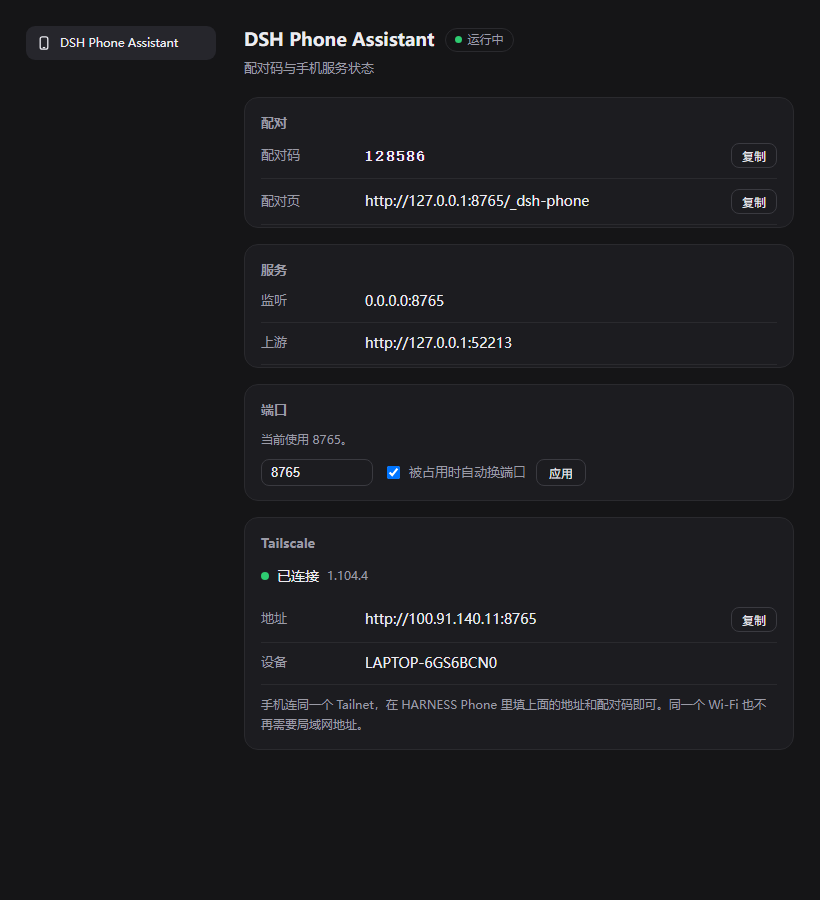
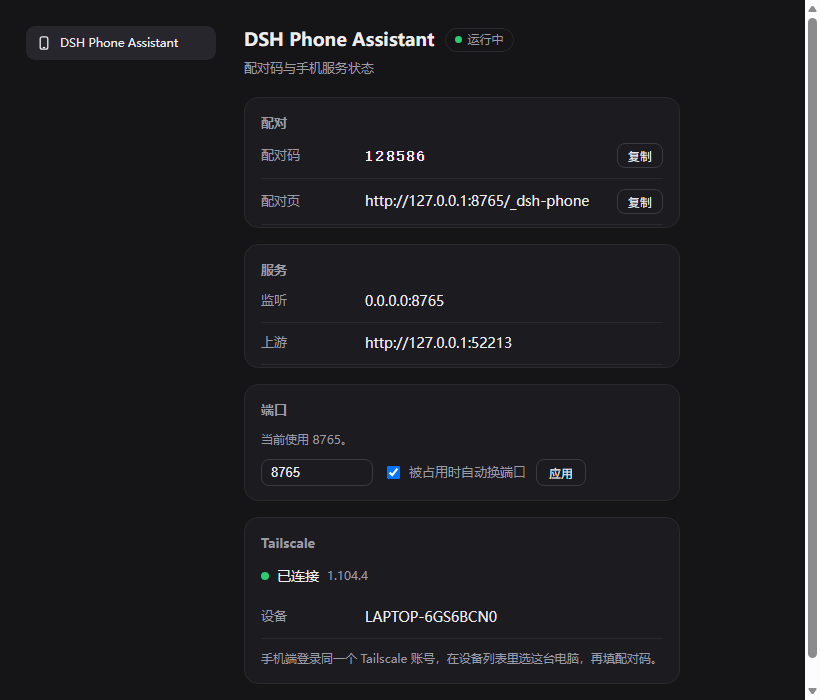
Show the machine name, not its tailnet address
The phone is 2.x: it joins the tailnet itself and lists the account's machines, so nobody has to type http://100.x.x.x:8765 anywhere. The settings card now shows the device name only, and the loopback pairing page shows the code plus that name.

diff --git a/lib/client.js b/lib/client.js
@@ -7,7 +7,7 @@ window.__ModuleLoader__.load({
 		var exports = module.exports;
 
 		var CSS = "/* HARNESS Phone mobile shell — injected only into the phone bridge page. */\nhtml.hp-mobile,\nhtml.hp-mobile body {\n  overflow-x: hidden;\n}\nhtml.hp-mobile * {\n  scrollbar-width: none !important;\n}\nhtml.hp-mobile *::-webkit-scrollbar {\n  width: 0 !important;\n  height: 0 !important;\n  display: none !important;\n}\n\n/* ---------- left sidebar: no permanent rail; 80vw drawer ---------- */\nhtml.hp-mobile .mP3x-q_frame {\n  grid-template-columns: 0 minmax(0, 1fr) 0 !important;\n}\nhtml.hp-mobile .mP3x-q_frame > .mP3x-q_sidebarCol {\n  grid-column: 1 !important;\n}\nhtml.hp-mobile .mP3x-q_frame > .mP3x-q_centerCol {\n  grid-column: 2 !important;\n}\nhtml.hp-mobile .mP3x-q_frame > .mP3x-q_rightbarCol {\n  grid-column: 3 !important;\n}\nhtml.hp-mobile .mP3x-q_frame > .mP3x-q_bottomRow,\nhtml.hp-mobile .mP3x-q_frame > .mP3x-q_overlayLayer {\n  grid-column: 1 / -1 !important;\n}\nhtml.hp-mobile .mP3x-q_sidebarCol {\n  display: none !important;\n}\n/* The desktop 56px icon rail must never flash behind the right sidebar. */\nhtml.hp-mobile body:not(.hp-sidebar-open) .mP3x-q_sidebarCol,\nhtml.hp-mobile body.hp-rightbar-open .mP3x-q_sidebarCol {\n  display: none !important;\n}\nhtml.hp-mobile .mP3x-q_rightbarCol {\n  display: none !important;\n}\nhtml.hp-mobile body.hp-rightbar-open .mP3x-q_rightbarCol {\n  display: block !important;\n  position: fixed !important;\n  top: 0 !important;\n  left: 0 !important;\n  right: 0 !important;\n  bottom: 0 !important;\n  width: 100vw !important;\n  max-width: 100vw !important;\n  height: 100dvh !important;\n  z-index: 1003 !important;\n  overflow: hidden !important;\n  background: var(--dsw-alias-bg-layer-1) !important;\n  border-radius: 0 !important;\n  box-shadow: none !important;\n}\nhtml.hp-mobile body.hp-rightbar-open .mP3x-q_rightbarCol > * {\n  width: 100% !important;\n  min-width: 0 !important;\n  max-width: none !important;\n}\nhtml.hp-mobile button[aria-label=\"退出全屏\"],\nhtml.hp-mobile button[aria-label=\"Exit fullscreen\"],\nhtml.hp-mobile button[aria-label=\"退出全屏模式\"] {\n  display: none !important;\n}\nhtml.hp-mobile body.hp-rightbar-open {\n  overflow: hidden !important;\n}\nhtml.hp-mobile body.hp-sidebar-open:not(.hp-rightbar-open) .mP3x-q_sidebarCol {\n  display: block !important;\n  position: fixed !important;\n  inset: 0 auto 0 0 !important;\n  width: 80vw !important;\n  min-width: 80vw !important;\n  max-width: 80vw !important;\n  height: 100dvh !important;\n  z-index: 1002 !important;\n  overflow: hidden !important;\n  background: var(--dsw-alias-bg-layer-1) !important;\n  border-radius: 0 22px 22px 0 !important;\n  box-shadow: 12px 0 40px #0008 !important;\n}\nhtml.hp-mobile body.hp-sidebar-open:not(.hp-rightbar-open) .mP3x-q_sidebarCol > * {\n  width: 100% !important;\n  min-width: 0 !important;\n  max-width: none !important;\n  padding-top: env(safe-area-inset-top) !important;\n}\nhtml.hp-mobile body.hp-sidebar-open:not(.hp-rightbar-open) .mP3x-q_sidebarCol .wtg9ga_root,\nhtml.hp-mobile body.hp-sidebar-open:not(.hp-rightbar-open) .mP3x-q_sidebarCol .wtg9ga_regionArea,\nhtml.hp-mobile body.hp-sidebar-open:not(.hp-rightbar-open) .mP3x-q_sidebarCol .GAkraW_root {\n  width: 100% !important;\n  max-width: none !important;\n}\nhtml.hp-mobile body.hp-sidebar-open {\n  overflow: hidden !important;\n}\n\n#hp-menu-button {\n  width: 40px;\n  height: 40px;\n  flex: 0 0 40px;\n  border: 0;\n  border-radius: 12px;\n  background: transparent;\n  color: var(--dsw-alias-label-primary);\n  display: flex;\n  align-items: center;\n  justify-content: center;\n  padding: 0;\n  cursor: pointer;\n}\n#hp-menu-button svg {\n  width: 22px;\n  height: 22px;\n  stroke: currentColor;\n  stroke-width: 1.9;\n  fill: none;\n}\n#hp-menu-button:active {\n  background: var(--dsw-alias-bg-layer-2);\n}\n\n#hp-backdrop {\n  position: fixed;\n  inset: 0;\n  z-index: 1001;\n  background: #00000080;\n  backdrop-filter: blur(2px);\n  display: none;\n  border: 0;\n  animation: hp-fade-in 160ms ease both;\n}\n\n/* ---------- session top bar ---------- */\nhtml.hp-mobile .an3WzG_header {\n  min-height: 88px !important;\n  height: 88px !important;\n  padding: 8px 0 0 8px !important;\n  background: var(--dsw-alias-bg-layer-1) !important;\n  border-bottom: 1px solid var(--dsw-alias-border-l1) !important;\n  border-radius: 0 0 18px 18px !important;\n  box-shadow: 0 6px 20px #0002 !important;\n  position: relative !important;\n  z-index: 3 !important;\n  box-sizing: border-box !important;\n}\nhtml.hp-mobile .an3WzG_header.hp-no-tabs {\n  min-height: 64px !important;\n  height: 64px !important;\n}\nhtml.hp-mobile .an3WzG_titleRow {\n  width: 100% !important;\n  height: 48px !important;\n  min-height: 48px !important;\n  gap: 8px !important;\n  align-items: center !important;\n  position: relative !important;\n}\nhtml.hp-mobile .an3WzG_crumbs {\n  display: none !important;\n}\nhtml.hp-mobile .an3WzG_titleCluster {\n  flex: 0 0 auto !important;\n  min-width: 0 !important;\n}\nhtml.hp-mobile .an3WzG_headerUtilities {\n  position: absolute !important;\n  right: 48px !important;\n  top: 0 !important;\n  height: 48px !important;\n  margin: 0 !important;\n  gap: 4px !important;\n  align-items: center !important;\n  display: flex !important;\n}\nhtml.hp-mobile .an3WzG_headerActions {\n  position: absolute !important;\n  right: 48px !important;\n  top: 0 !important;\n  height: 48px !important;\n  margin: 0 !important;\n  gap: 4px !important;\n  align-items: center !important;\n  display: flex !important;\n}\nhtml.hp-mobile .an3WzG_headerActions > div:first-child {\n  display: none !important; /* background-job status pill */\n}\nhtml.hp-mobile .an3WzG_headerUtilities > ._root_4ub78_1 > button,\nhtml.hp-mobile .an3WzG_headerUtilities > button,\nhtml.hp-mobile .an3WzG_headerActions button,\nhtml.hp-mobile .an3WzG_headerCorner > button,\nhtml.hp-mobile .an3WzG_headerCorner > span > button {\n  width: 40px !important;\n  min-width: 40px !important;\n  height: 40px !important;\n  min-height: 40px !important;\n  margin: 0 !important;\n  align-self: center !important;\n  display: flex !important;\n  align-items: center !important;\n  justify-content: center !important;\n  border-radius: 12px !important;\n}\nhtml.hp-mobile .an3WzG_headerCorner {\n  width: 40px !important;\n  height: 48px !important;\n  margin: 0 !important;\n  position: absolute !important;\n  right: 0 !important;\n  top: 0 !important;\n  display: flex !important;\n  align-items: center !important;\n  justify-content: center !important;\n}\nhtml.hp-mobile .mOxcpG_main,\nhtml.hp-mobile .mOxcpG_chevron,\nhtml.hp-mobile .mOxcpG_split,\nhtml.hp-mobile .yHUiNq_action {\n  display: none !important; /* PC \"open in app\" controls: phone must preview in HARNESS */\n}\nhtml.hp-mobile .hp-file-action {\n  appearance: none;\n  width: 28px;\n  height: 28px;\n  min-width: 28px;\n  margin-left: 4px;\n  padding: 0;\n  border: 1px solid var(--dsw-alias-border-l2);\n  border-radius: 8px;\n  background: var(--dsw-alias-bg-layer-2);\n  color: var(--dsw-alias-label-secondary);\n  display: inline-flex;\n  align-items: center;\n  justify-content: center;\n  vertical-align: middle;\n  transition: background-color 160ms ease, color 160ms ease;\n}\nhtml.hp-mobile .hp-file-action:active {\n  background: var(--dsw-alias-bg-layer-3);\n}\nhtml.hp-mobile .hp-file-action.hp-open {\n  color: var(--dsw-alias-state-business-primary, #4d6bfe);\n  border-color: var(--dsw-alias-state-business-primary, #4d6bfe);\n}\nhtml.hp-mobile .an3WzG_tabs {\n  margin: 0 !important;\n  padding: 0 4px !important;\n  width: 100% !important;\n  height: 32px !important;\n  min-height: 32px !important;\n  display: flex !important;\n  align-items: center !important;\n  box-sizing: border-box !important;\n}\nhtml.hp-mobile .an3WzG_viewTabs {\n  flex: 2 1 0 !important;\n  display: flex !important;\n  align-items: center !important;\n  justify-content: space-around !important;\n}\nhtml.hp-mobile .an3WzG_tab {\n  flex: 1 1 0 !important;\n  height: 30px !important;\n  padding: 0 8px !important;\n  border-radius: 9px !important;\n  justify-content: center !important;\n}\nhtml.hp-mobile .an3WzG_tabActive {\n  background: var(--dsw-alias-bg-layer-2) !important;\n}\nhtml.hp-mobile .an3WzG_viewsMoreAnchor {\n  flex: 1 1 0 !important;\n  display: flex !important;\n  align-items: center !important;\n  justify-content: center !important;\n}\nhtml.hp-mobile .an3WzG_viewsMore {\n  width: 52px !important;\n  height: 30px !important;\n  display: flex !important;\n  align-items: center !important;\n  justify-content: center !important;\n  font: 500 13px/16px var(--dsw-font-family, sans-serif) !important;\n  color: var(--dsw-alias-label-secondary) !important;\n}\nhtml.hp-mobile .an3WzG_viewsMore svg {\n  display: none !important;\n}\nhtml.hp-mobile .an3WzG_viewsMore::after {\n  content: \"更多\";\n}\nhtml.hp-mobile [role=\"menu\"] {\n  background: var(--dsw-alias-bg-layer-1) !important;\n  background-color: var(--dsw-alias-bg-layer-1) !important;\n  -webkit-backdrop-filter: none !important;\n  backdrop-filter: none !important;\n  box-shadow: 0 10px 30px #0005 !important;\n  border: 1px solid var(--dsw-alias-border-l1) !important;\n  opacity: 1 !important;\n}\nhtml.hp-mobile [role=\"menuitem\"] {\n  background: transparent !important;\n}\nhtml.hp-mobile [role=\"menuitem\"]:hover {\n  background: var(--dsw-alias-bg-layer-2) !important;\n}\n\n#hp-brand {\n  display: flex;\n  align-items: center;\n  height: 40px;\n  padding-right: 2px;\n  color: var(--dsw-alias-label-primary);\n  font: 700 18px/1 var(--dsw-font-family, sans-serif);\n  letter-spacing: 0.06em;\n  white-space: nowrap;\n  flex: 0 0 auto;\n}\n\n#hp-floating-menu {\n  position: fixed;\n  top: calc(8px + env(safe-area-inset-top));\n  left: 8px;\n  z-index: 1000;\n  width: 40px;\n  height: 40px;\n  padding: 0;\n  border: 1px solid var(--dsw-alias-border-l2);\n  border-radius: 11px;\n  background: var(--dsw-alias-bg-layer-2);\n  color: var(--dsw-alias-label-primary);\n  display: inline-flex;\n  align-items: center;\n  justify-content: center;\n  box-shadow: 0 4px 16px #0005;\n}\n#hp-floating-menu svg {\n  width: 22px;\n  height: 22px;\n  fill: none;\n  stroke: currentColor;\n  stroke-width: 1.8;\n  stroke-linecap: round;\n}\nbody.hp-sidebar-open #hp-floating-menu,\nbody.hp-rightbar-open #hp-floating-menu,\nbody.hp-settings-open #hp-floating-menu {\n  display: none !important;\n}\n\n/* ---------- panel pages (插件 / 自动化任务): in-flow drawer trigger ---------- */\n#hp-page-menu {\n  position: absolute;\n  top: 0;\n  width: 36px;\n  height: 36px;\n  margin: 0;\n  padding: 0;\n  border: 0;\n  border-radius: 12px;\n  background: transparent;\n  color: var(--dsw-alias-label-primary);\n  display: inline-flex;\n  align-items: center;\n  justify-content: center;\n  cursor: pointer;\n  -webkit-tap-highlight-color: transparent;\n  z-index: 2;\n}\n#hp-page-menu svg {\n  width: 22px;\n  height: 22px;\n  fill: none;\n  stroke: currentColor;\n  stroke-width: 1.9;\n  stroke-linecap: round;\n}\n#hp-page-menu:active {\n  background: var(--dsw-alias-bg-layer-2);\n}\nhtml.hp-mobile .hp-page-heading {\n  box-sizing: border-box !important;\n}\n#hp-rightbar-escape {\n  position: fixed;\n  top: calc(48px + env(safe-area-inset-top));\n  right: 12px;\n  z-index: 1006;\n  width: 34px;\n  height: 34px;\n  padding: 0;\n  border: 1px solid var(--dsw-alias-border-l2);\n  border-radius: 50%;\n  background: var(--dsw-alias-bg-layer-2);\n  color: var(--dsw-alias-label-primary);\n  font: 20px/1 var(--dsw-font-family, sans-serif);\n  box-shadow: 0 4px 14px #0006;\n}\n#hp-rightbar-toolbar {\n  display: flex;\n  align-items: center;\n  gap: 7px;\n  min-height: 48px;\n  padding: 7px 10px;\n  border-bottom: 1px solid var(--dsw-alias-border-l1);\n  background: var(--dsw-alias-bg-layer-2);\n  position: sticky;\n  top: 0;\n  z-index: 30;\n  box-sizing: border-box;\n  width: 100%;\n}\n.hp-preview-actions {\n  display: inline-flex;\n  align-items: center;\n  gap: 2px;\n  flex: 0 0 auto;\n}\n.hp-preview-action {\n  appearance: none;\n  width: 28px;\n  height: 28px;\n  padding: 0;\n  border: 0;\n  border-radius: 7px;\n  background: transparent;\n  color: var(--dsw-alias-label-secondary);\n  font: 500 15px/1 var(--dsw-font-family, sans-serif);\n  display: inline-flex;\n  align-items: center;\n  justify-content: center;\n}\n.hp-preview-action:active {\n  background: var(--dsw-alias-bg-layer-3);\n}\n.hp-rightbar-name {\n  flex: 1 1 auto;\n  min-width: 0;\n  overflow: hidden;\n  text-overflow: ellipsis;\n  white-space: nowrap;\n  color: var(--dsw-alias-label-primary);\n  font: 500 13px/1.3 var(--dsw-font-family, sans-serif);\n}\n.hp-rightbar-tool {\n  appearance: none;\n  width: 32px;\n  height: 32px;\n  min-width: 32px;\n  padding: 0;\n  border: 1px solid var(--dsw-alias-border-l2);\n  border-radius: 9px;\n  background: var(--dsw-alias-bg-layer-1);\n  color: var(--dsw-alias-label-primary);\n  font: 16px/1 var(--dsw-font-family, sans-serif);\n  display: inline-flex;\n  align-items: center;\n  justify-content: center;\n}\n.hp-rightbar-close {\n  color: var(--dsw-alias-label-secondary);\n}\nhtml.hp-mobile a.hp-file-anchor {\n  display: inline-flex;\n  align-items: center;\n  gap: 8px;\n  padding: 10px 12px;\n  margin: 4px 0;\n  border: 1px solid var(--dsw-alias-border-l1);\n  border-radius: 12px;\n  background: var(--dsw-alias-bg-layer-1);\n  color: var(--dsw-alias-label-primary) !important;\n  text-decoration: none !important;\n  font-size: 14px;\n  line-height: 1.4;\n}\nhtml.hp-mobile a.hp-file-anchor::before {\n  content: '📄';\n  font-size: 15px;\n  line-height: 1;\n}\nhtml.hp-mobile a.hp-file-anchor + .hp-file-action {\n  margin-left: 6px;\n}\n#hp-toast {\n  position: fixed;\n  left: 50%;\n  bottom: calc(120px + env(safe-area-inset-bottom));\n  z-index: 2000;\n  transform: translate(-50%, 12px);\n  max-width: calc(100vw - 40px);\n  padding: 10px 14px;\n  border: 1px solid var(--dsw-alias-border-l2);\n  border-radius: 12px;\n  background: var(--dsw-alias-bg-layer-2);\n  color: var(--dsw-alias-label-primary);\n  font: 13px/1.4 var(--dsw-font-family, sans-serif);\n  box-shadow: 0 8px 28px #0006;\n  opacity: 0;\n  pointer-events: none;\n  transition: opacity 0.18s ease, transform 0.18s ease;\n}\n#hp-toast.hp-show {\n  opacity: 1;\n  transform: translate(-50%, 0);\n}\n\n/* ---------- settings: full screen, horizontal nav ---------- */\nhtml.hp-mobile .AnXs9G_overlay {\n  padding: 0 !important;\n  z-index: 1050 !important;\n  animation: hp-fade-in 150ms ease both;\n}\nhtml.hp-mobile body.hp-settings-open #hp-backdrop {\n  display: none !important;\n}\nhtml.hp-mobile .AnXs9G_panel {\n  width: 100vw !important;\n  max-width: 100vw !important;\n  height: 100dvh !important;\n  max-height: 100dvh !important;\n  margin: 0 !important;\n  border-radius: 0 !important;\n  padding: 0 !important;\n  display: flex !important;\n  flex-direction: column !important;\n  overflow: hidden !important;\n  animation: hp-sheet-in 190ms cubic-bezier(0.2, 0, 0, 1) both;\n}\nhtml.hp-mobile .AnXs9G_nav {\n  width: 100% !important;\n  height: auto !important;\n  max-height: none !important;\n  flex: 0 0 auto !important;\n  padding: calc(10px + env(safe-area-inset-top)) 12px 0 !important;\n  border-right: 0 !important;\n  border-bottom: 1px solid var(--dsw-alias-border-l1) !important;\n  box-sizing: border-box !important;\n}\nhtml.hp-mobile .AnXs9G_navList {\n  display: flex !important;\n  flex-direction: row !important;\n  gap: 6px !important;\n  overflow-x: auto !important;\n  padding: 0 0 8px !important;\n  scrollbar-width: none !important;\n  scroll-behavior: smooth !important;\n}\nhtml.hp-mobile .AnXs9G_navList::-webkit-scrollbar {\n  display: none !important;\n}\nhtml.hp-mobile .AnXs9G_navCell {\n  width: auto !important;\n  flex: 0 0 auto !important;\n  white-space: nowrap !important;\n  padding: 9px 12px !important;\n  transition: background-color 160ms ease, color 160ms ease;\n}\nhtml.hp-mobile .AnXs9G_content {\n  width: 100% !important;\n  flex: 1 1 auto !important;\n  min-height: 0 !important;\n  padding: 10px 16px calc(24px + env(safe-area-inset-bottom)) !important;\n  overflow-y: auto !important;\n  box-sizing: border-box !important;\n}\nhtml.hp-mobile .AnXs9G_header {\n  position: fixed !important;\n  top: calc(10px + env(safe-area-inset-top)) !important;\n  right: 12px !important;\n  left: auto !important;\n  width: 36px !important;\n  height: 36px !important;\n  padding: 0 !important;\n  margin: 0 !important;\n  background: transparent !important;\n  z-index: 6 !important;\n}\nhtml.hp-mobile .AnXs9G_header .AnXs9G_actions {\n  display: none !important;\n}\nhtml.hp-mobile .AnXs9G_close {\n  width: 36px !important;\n  height: 36px !important;\n  min-width: 36px !important;\n  border-radius: 50% !important;\n  background: var(--dsw-alias-bg-layer-2) !important;\n  border: 1px solid var(--dsw-alias-border-l2) !important;\n}\nhtml.hp-mobile .AnXs9G_options {\n  width: 100% !important;\n  max-width: none !important;\n  padding: 0 0 calc(24px + env(safe-area-inset-bottom)) !important;\n  box-sizing: border-box !important;\n  overflow-x: hidden !important;\n}\nhtml.hp-mobile .RmVo8q_section,\nhtml.hp-mobile .IUsUBa_group {\n  width: 100% !important;\n  max-width: none !important;\n}\nhtml.hp-mobile .Iwzhua_group {\n  display: none !important; /* native appearance row writes to the Host; replaced by local card */\n}\nhtml.hp-mobile .AnXs9G_close {\n  flex: 0 0 auto !important;\n}\n\n/* local-only appearance (sits where the desktop Appearance section is) */\nhtml.hp-mobile .hp-appearance {\n  width: 100% !important;\n  flex: 1 1 100% !important;\n  padding: 16px 0;\n  margin: 0;\n  box-sizing: border-box;\n  border-bottom: 1px solid var(--dsw-alias-border-l1);\n  color: var(--dsw-alias-label-primary);\n}\nhtml.hp-mobile .hp-appearance-head {\n  display: block;\n  margin: 0 0 10px;\n  font-size: 15px;\n  font-weight: 500;\n  line-height: 1.4;\n}\nhtml.hp-mobile .hp-theme {\n  display: flex;\n  gap: 6px;\n  width: 100%;\n}\nhtml.hp-mobile .hp-theme button {\n  appearance: none;\n  flex: 1 1 0;\n  min-height: 38px;\n  padding: 8px 6px;\n  border: 1px solid var(--dsw-alias-border-l2);\n  border-radius: 11px;\n  background: var(--dsw-alias-bg-layer-1);\n  color: var(--dsw-alias-label-primary);\n  font: 500 14px/1.2 var(--dsw-font-family, sans-serif);\n  transition: background-color 160ms ease, border-color 160ms ease, color 160ms ease;\n}\nhtml.hp-mobile .hp-theme button:active {\n  transform: scale(0.98);\n}\nhtml.hp-mobile .hp-theme button.hp-selected {\n  border-color: var(--dsw-alias-state-business-primary, #4d6bfe);\n  background: var(--dsw-alias-bg-layer-3);\n  color: var(--dsw-alias-state-business-primary, #4d6bfe);\n}\nhtml.hp-mobile .hp-local-font-row {\n  display: flex !important;\n  flex-direction: row !important;\n  align-items: center !important;\n  justify-content: space-between !important;\n  gap: 16px !important;\n  width: 100% !important;\n  min-width: 100% !important;\n  box-sizing: border-box !important;\n  padding: 16px 0 !important;\n  border-bottom: 1px solid var(--dsw-alias-border-l1);\n  color: var(--dsw-alias-label-primary);\n}\nhtml.hp-mobile .hp-local-font-copy {\n  flex: 1 1 auto;\n  min-width: 0;\n  display: flex;\n  flex-direction: column;\n  gap: 4px;\n}\nhtml.hp-mobile .hp-local-font-label {\n  font-size: 15px;\n  font-weight: 500;\n  line-height: 1.4;\n}\nhtml.hp-mobile .hp-local-font-hint {\n  color: var(--dsw-alias-label-tertiary);\n  font-size: 12px;\n  line-height: 1.45;\n}\nhtml.hp-mobile .hp-local-font-control {\n  flex: 0 0 auto;\n  display: flex;\n  align-items: center;\n  gap: 4px;\n}\nhtml.hp-mobile .hp-font-stepper {\n  display: flex;\n  align-items: center;\n  gap: 2px;\n}\nhtml.hp-mobile .hp-font-arrows {\n  display: flex;\n  flex-direction: column;\n  gap: 1px;\n}\nhtml.hp-mobile .hp-font-step {\n  appearance: none;\n  width: 18px;\n  height: 15px;\n  min-width: 18px;\n  padding: 0;\n  border: 0;\n  border-radius: 4px;\n  background: transparent;\n  color: var(--dsw-alias-label-secondary);\n  font: 500 8px/1 var(--dsw-font-family, sans-serif);\n  display: inline-flex;\n  align-items: center;\n  justify-content: center;\n}\nhtml.hp-mobile .hp-font-step:active {\n  background: var(--dsw-alias-bg-layer-2);\n}\nhtml.hp-mobile .hp-font-more {\n  appearance: none;\n  width: 30px;\n  height: 30px;\n  padding: 0;\n  border: 1px solid var(--dsw-alias-border-l2);\n  border-radius: 9px;\n  background: var(--dsw-alias-bg-layer-2);\n  color: var(--dsw-alias-label-secondary);\n  font: 500 14px/1 var(--dsw-font-family, sans-serif);\n  display: inline-flex;\n  align-items: center;\n  justify-content: center;\n  align-self: center;\n  transition: transform 120ms ease;\n}\nhtml.hp-mobile .hp-font-more.hp-font-more-open {\n  transform: rotate(180deg);\n}\nhtml.hp-mobile .hp-font-extra {\n  border-bottom: 1px solid var(--dsw-alias-border-l1);\n  padding-bottom: 6px;\n}\nhtml.hp-mobile .hp-font-extra[hidden] {\n  display: none !important;\n}\nhtml.hp-mobile .hp-font-extra-row {\n  display: flex;\n  align-items: center;\n  justify-content: space-between;\n  gap: 16px;\n  padding: 13px 0;\n  border-bottom: 1px solid var(--dsw-alias-border-l1);\n}\nhtml.hp-mobile .hp-font-extra-row:last-child {\n  border-bottom: 0;\n}\nhtml.hp-mobile .hp-font-extra-copy {\n  flex: 1 1 auto;\n  min-width: 0;\n  display: flex;\n  flex-direction: column;\n  gap: 4px;\n}\nhtml.hp-mobile .hp-font-extra-title {\n  font-size: 14px;\n  font-weight: 500;\n  color: var(--dsw-alias-label-primary);\n}\nhtml.hp-mobile .hp-font-extra-desc {\n  font-size: 12px;\n  line-height: 1.45;\n  color: var(--dsw-alias-label-tertiary);\n}\nhtml.hp-mobile .hp-font-extra-input {\n  flex: 0 0 132px;\n  width: 132px;\n  min-height: 36px;\n  padding: 6px 9px;\n  border: 1px solid var(--dsw-alias-border-l2);\n  border-radius: 9px;\n  background: var(--dsw-alias-bg-layer-2);\n  color: var(--dsw-alias-label-primary);\n  font: 13px/1.3 var(--dsw-font-family, sans-serif);\n}\nhtml.hp-mobile ._7qxJPq_row {\n  width: 100% !important;\n  box-sizing: border-box !important;\n}\nhtml.hp-mobile .AnXs9G_content [id^=\":r\"] {\n  width: 100% !important;\n  max-width: 100% !important;\n  box-sizing: border-box !important;\n}\nhtml.hp-mobile .hp-local-font-value {\n  width: 42px;\n  min-width: 42px;\n  height: 32px;\n  padding: 0 4px;\n  border: 1px solid transparent;\n  border-radius: 8px;\n  background: transparent;\n  color: var(--dsw-alias-label-primary);\n  font: 500 14px/1 var(--dsw-font-family, sans-serif);\n  text-align: right;\n  font-variant-numeric: tabular-nums;\n  appearance: textfield;\n  -moz-appearance: textfield;\n}\nhtml.hp-mobile .hp-local-font-value:focus {\n  outline: none;\n  border-color: var(--dsw-alias-border-l2);\n  background: var(--dsw-alias-bg-layer-2);\n}\nhtml.hp-mobile .hp-local-font-value::-webkit-outer-spin-button,\nhtml.hp-mobile .hp-local-font-value::-webkit-inner-spin-button {\n  appearance: none;\n  margin: 0;\n}\n/* Keep the native \"更多字体设置\" expander and its per-section panel. */\nhtml.hp-mobile ._7qxJPq_row.hp-font-native {\n  display: flex !important;\n  padding: 4px 0 8px !important;\n  border: 0 !important;\n  min-height: 0 !important;\n}\nhtml.hp-mobile ._7qxJPq_row.hp-font-native ._7qxJPq_rowText,\nhtml.hp-mobile ._7qxJPq_row.hp-font-native ._7qxJPq_stepper,\nhtml.hp-mobile ._7qxJPq_row.hp-font-native ._7qxJPq_unit {\n  display: none !important;\n}\nhtml.hp-mobile ._7qxJPq_row.hp-font-native ._7qxJPq_control {\n  width: 100% !important;\n  justify-content: flex-end !important;\n}\nhtml.hp-mobile .hp-local-font-unit {\n  color: var(--dsw-alias-label-tertiary);\n  font-size: 12px;\n}\nhtml.hp-mobile .hp-download-row {\n  display: flex !important;\n  align-items: center !important;\n  justify-content: space-between !important;\n  gap: 16px !important;\n  width: 100% !important;\n  box-sizing: border-box !important;\n  padding: 16px 0 !important;\n  border-bottom: 1px solid var(--dsw-alias-border-l1);\n  color: var(--dsw-alias-label-primary);\n}\nhtml.hp-mobile .hp-download-copy {\n  flex: 1 1 auto;\n  min-width: 0;\n  display: flex;\n  flex-direction: column;\n  gap: 4px;\n}\nhtml.hp-mobile .hp-download-label {\n  font-size: 15px;\n  font-weight: 500;\n  line-height: 1.4;\n}\nhtml.hp-mobile .hp-download-hint {\n  color: var(--dsw-alias-label-tertiary);\n  font-size: 12px;\n  line-height: 1.45;\n}\nhtml.hp-mobile .hp-download-folder {\n  appearance: none;\n  flex: 0 0 auto;\n  width: 36px;\n  height: 36px;\n  padding: 0;\n  border: 1px solid var(--dsw-alias-border-l2);\n  border-radius: 10px;\n  background: var(--dsw-alias-bg-layer-2);\n  color: var(--dsw-alias-label-secondary);\n  display: inline-flex;\n  align-items: center;\n  justify-content: center;\n}\n\n/* connection settings: last Settings section, rendered in-place */\nhtml.hp-mobile .hp-connection-nav {\n  flex: 0 0 auto !important;\n  display: inline-flex !important;\n  align-items: center !important;\n  gap: 6px !important;\n  white-space: nowrap !important;\n}\nhtml.hp-mobile .hp-connection-nav svg {\n  width: 16px;\n  height: 16px;\n  flex: 0 0 16px;\n}\nhtml.hp-mobile .hp-connection-panel {\n  display: none;\n  padding: 4px 0 calc(30px + env(safe-area-inset-bottom));\n  color: var(--dsw-alias-label-primary);\n  box-sizing: border-box;\n}\nhtml.hp-mobile .hp-connection-panel.hp-open {\n  display: block;\n}\nhtml.hp-mobile .hp-conn-top {\n  display: flex;\n  align-items: flex-start;\n  justify-content: space-between;\n  gap: 10px;\n  margin-bottom: 12px;\n}\nhtml.hp-mobile .hp-conn-top h2 {\n  margin: 0;\n  font-size: 20px;\n  line-height: 1.2;\n  font-weight: 700;\n}\nhtml.hp-mobile .hp-conn-top p {\n  margin: 6px 0 0;\n  font-size: 12px;\n  line-height: 1.45;\n  color: var(--dsw-alias-label-secondary);\n}\nhtml.hp-mobile .hp-conn-card {\n  margin: 0;\n  padding: 16px 0;\n  border: 0;\n  border-bottom: 1px solid var(--dsw-alias-border-l1);\n  border-radius: 0;\n  background: transparent;\n  box-shadow: none;\n}\nhtml.hp-mobile .hp-conn-card:last-child {\n  border-bottom: 0;\n}\nhtml.hp-mobile .hp-conn-card-title {\n  font-size: 15px;\n  font-weight: 500;\n  line-height: 1.4;\n}\nhtml.hp-mobile .hp-conn-status {\n  margin-top: 7px;\n  font-size: 13px;\n  line-height: 1.4;\n  color: var(--dsw-alias-label-secondary);\n}\nhtml.hp-mobile .hp-conn-status.hp-ok {\n  color: var(--dsw-alias-state-success-primary, #2aa36f);\n}\nhtml.hp-mobile .hp-conn-hint {\n  margin-top: 6px;\n  font-size: 12px;\n  line-height: 1.45;\n  color: var(--dsw-alias-label-tertiary);\n}\nhtml.hp-mobile .hp-conn-row {\n  display: flex;\n  gap: 8px;\n  margin-top: 12px;\n}\nhtml.hp-mobile .hp-btn {\n  appearance: none;\n  flex: 1 1 0;\n  min-height: 40px;\n  padding: 8px 10px;\n  border: 1px solid var(--dsw-alias-border-l2);\n  border-radius: 11px;\n  background: var(--dsw-alias-bg-layer-2);\n  color: var(--dsw-alias-label-primary);\n  font: 500 13px/1.2 var(--dsw-font-family, sans-serif);\n  transition: background-color 160ms ease, opacity 160ms ease, transform 120ms ease;\n}\nhtml.hp-mobile .hp-btn:active {\n  transform: scale(0.985);\n}\nhtml.hp-mobile .hp-btn-primary {\n  border-color: transparent;\n  background: var(--dsw-alias-label-primary);\n  color: var(--dsw-alias-bg-layer-1);\n}\nhtml.hp-mobile .hp-btn:disabled {\n  opacity: 0.42;\n}\nhtml.hp-mobile .hp-conn-devices {\n  display: flex;\n  flex-direction: column;\n  gap: 6px;\n  margin-top: 10px;\n}\nhtml.hp-mobile .hp-device {\n  display: flex;\n  align-items: center;\n  gap: 9px;\n  min-height: 44px;\n  padding: 7px 9px;\n  border: 1px solid var(--dsw-alias-border-l1);\n  border-radius: 10px;\n  background: var(--dsw-alias-bg-layer-2);\n  font-size: 13px;\n}\nhtml.hp-mobile .hp-device input {\n  accent-color: var(--dsw-alias-state-business-primary, #4d6bfe);\n}\nhtml.hp-mobile .hp-device span {\n  display: flex;\n  flex-direction: column;\n  gap: 3px;\n  min-width: 0;\n}\nhtml.hp-mobile .hp-device b {\n  font-weight: 500;\n}\nhtml.hp-mobile .hp-device small {\n  font-size: 11px;\n  color: var(--dsw-alias-label-tertiary);\n}\nhtml.hp-mobile .hp-input {\n  display: block;\n  width: 100%;\n  min-height: 42px;\n  margin-top: 8px;\n  padding: 9px 11px;\n  border: 1px solid var(--dsw-alias-border-l2);\n  border-radius: 10px;\n  background: var(--dsw-alias-bg-layer-2);\n  color: var(--dsw-alias-label-primary);\n  font: 400 14px/1.3 var(--dsw-font-family, sans-serif);\n  box-sizing: border-box;\n  transition: border-color 160ms ease, box-shadow 160ms ease;\n}\nhtml.hp-mobile .hp-input:focus {\n  outline: none;\n  border-color: var(--dsw-alias-state-business-primary, #4d6bfe);\n  box-shadow: 0 0 0 2px #4d6bfe22;\n}\nhtml.hp-mobile .hp-code {\n  letter-spacing: 0.22em;\n  font-variant-numeric: tabular-nums;\n}\nhtml.hp-mobile .hp-conn-label {\n  display: block;\n  margin-top: 13px;\n  font-size: 12px;\n  color: var(--dsw-alias-label-secondary);\n}\nhtml.hp-mobile .hp-conn-connect {\n  width: 100%;\n  margin-top: 14px;\n}\n\n/* disconnected: keep the DSH surface, grey out everything except Settings */\n#hp-lost-banner {\n  position: fixed;\n  left: 12px;\n  right: 12px;\n  top: calc(10px + env(safe-area-inset-top));\n  z-index: 1300;\n  display: flex;\n  align-items: center;\n  justify-content: space-between;\n  gap: 10px;\n  padding: 10px 12px;\n  border: 1px solid var(--dsw-alias-border-l2);\n  border-radius: 12px;\n  background: var(--dsw-alias-bg-layer-2);\n  color: var(--dsw-alias-label-primary);\n  box-shadow: 0 8px 28px #00000024;\n  font: 500 13px/1.35 var(--dsw-font-family, sans-serif);\n  animation: hp-fade-up 180ms cubic-bezier(0.2, 0, 0, 1) both;\n}\n#hp-lost-banner button {\n  appearance: none;\n  flex: 0 0 auto;\n  border: 1px solid var(--dsw-alias-border-l2);\n  border-radius: 9px;\n  background: var(--dsw-alias-label-primary);\n  color: var(--dsw-alias-bg-layer-1);\n  padding: 6px 11px;\n  font: 500 12px/1.2 var(--dsw-font-family, sans-serif);\n}\nhtml.hp-mobile body.hp-connection-lost .an3WzG_header ~ *,\nhtml.hp-mobile body.hp-connection-lost .mP3x-q_main,\nhtml.hp-mobile body.hp-connection-lost .mP3x-q_composerSeat,\nhtml.hp-mobile body.hp-connection-lost .mP3x-q_sidebar,\nhtml.hp-mobile body.hp-connection-lost .an3WzG_messageList {\n  opacity: 0.4;\n  filter: grayscale(0.5);\n  pointer-events: none;\n  transition: opacity 160ms ease, filter 160ms ease;\n}\nhtml.hp-mobile body.hp-connection-lost .AnXs9G_overlay,\nhtml.hp-mobile body.hp-connection-lost .AnXs9G_panel,\nhtml.hp-mobile body.hp-connection-lost #hp-menu-button,\nhtml.hp-mobile body.hp-connection-lost #hp-lost-banner {\n  opacity: 1 !important;\n  filter: none !important;\n  pointer-events: auto !important;\n}\n\n@keyframes hp-fade-up {\n  from { opacity: 0; transform: translateY(6px); }\n  to { opacity: 1; transform: translateY(0); }\n}\n@keyframes hp-fade-in {\n  from { opacity: 0; }\n  to { opacity: 1; }\n}\n@keyframes hp-sheet-in {\n  from { opacity: 0; transform: translateY(10px); }\n  to { opacity: 1; transform: translateY(0); }\n}\n@media (prefers-reduced-motion: reduce) {\n  html.hp-mobile .hp-appearance,\n  html.hp-mobile .hp-connection-panel.hp-open,\n  html.hp-mobile .AnXs9G_overlay,\n  html.hp-mobile .AnXs9G_panel,\n  html.hp-mobile .hp-theme button,\n  html.hp-mobile .hp-btn {\n    animation: none !important;\n    transition: none !important;\n  }\n}\n\n/* ---------- composer: one position/size for new session and chat ---------- */\nhtml.hp-mobile .an3WzG_composerSeat {\n  position: sticky !important;\n  bottom: 0 !important;\n  z-index: 12 !important;\n  width: 100% !important;\n  margin-top: auto !important;\n  box-sizing: border-box !important;\n  background: transparent !important;\n  padding: 0 10px calc(8px + env(safe-area-inset-bottom)) !important;\n}\nhtml.hp-mobile .GRgSLq_card {\n  border-radius: 24px !important;\n  padding: 10px 12px 8px !important;\n  min-height: 88px !important;\n  box-sizing: border-box !important;\n}\nhtml.hp-mobile .GRgSLq_input,\nhtml.hp-mobile .an3WzG_composerSeat textarea {\n  min-height: 46px !important;\n  max-height: 132px !important;\n  font-size: 15px !important;\n  line-height: 1.45 !important;\n  overflow-y: auto !important;\n}\nhtml.hp-mobile .an3WzG_composerHero .WOwLGG_root,\nhtml.hp-mobile .an3WzG_composerHero .an3WzG_heroWorkspaceRow {\n  position: relative !important;\n  top: clamp(-220px, -24vh, -100px) !important;\n}\nhtml.hp-mobile .an3WzG_composerHero .an3WzG_heroWorkspaceRow {\n  display: flex !important;\n  align-items: center !important;\n  justify-content: center !important;\n  gap: 10px !important;\n  width: 100% !important;\n  max-width: calc(100vw - 32px) !important;\n  margin-left: auto !important;\n  margin-right: auto !important;\n  box-sizing: border-box !important;\n}\nhtml.hp-mobile .an3WzG_composerHero .an3WzG_heroWorkspaceRow > * {\n  flex: 0 0 auto !important;\n}\nhtml.hp-mobile .an3WzG_composerHero .an3WzG_heroOptions {\n  display: none !important;\n}\nhtml.hp-mobile button[aria-label=\"添加工作区\"],\nhtml.hp-mobile button[aria-label=\"Add workspace\"] {\n  display: none !important;\n}\nhtml.hp-mobile .GRgSLq_primary {\n  width: 44px !important;\n  height: 44px !important;\n}\nhtml.hp-mobile .GRgSLq_root {\n  padding-bottom: 0 !important;\n}\n";
-		var BUILD = "0.3.1-mw061d0n";
+		var BUILD = "0.3.2-mw066s95";
 
 		function runMobileUi() {
 (function () {
@@ -1754,11 +1754,12 @@ function runSettingsSection() {
     if (ts.version) statusRow.appendChild(el('span', 'font-size:12px;color:var(--dsw-alias-label-secondary, #9b9ba6);', ts.version))
     tsCard.appendChild(statusRow)
 
-    if (ts.state === 'running' && ts.ip) {
-      tsCard.appendChild(row('地址', ts.url || ('http://' + ts.ip + ':' + data.port), { copy: ts.url || ('http://' + ts.ip + ':' + data.port) }))
+    if (ts.state === 'running') {
+      // The phone carries its own tailnet node and discovers this machine through
+      // the account, so the address is not something anyone has to type.
       if (ts.hostname) tsCard.appendChild(row('设备', ts.hostname))
       tsCard.appendChild(el('div', 'padding:10px 0 12px;font-size:12px;line-height:1.7;color:var(--dsw-alias-label-secondary, #9b9ba6);',
-        '手机连同一个 Tailnet，在 HARNESS Phone 里填上面的地址和配对码即可。同一个 Wi-Fi 也不再需要局域网地址。'))
+        '手机端登录同一个 Tailscale 账号，在设备列表里选这台电脑，再填配对码。'))
     } else if (ts.state === 'not-installed') {
       tsCard.appendChild(el('div', 'padding:0 0 10px;font-size:13px;line-height:1.7;color:var(--dsw-alias-label-secondary, #9b9ba6);',
         '手机端已经带了自己的 Tailscale 节点，但电脑这一端需要装一个并登录同一账号，手机才连得回来。'))
@@ -1767,7 +1768,7 @@ function runSettingsSection() {
         '装好并登录后回到这里，状态会自动变成“已连接”。'))
     } else {
       tsCard.appendChild(el('div', 'padding:0 0 10px;font-size:13px;line-height:1.7;color:var(--dsw-alias-label-secondary, #9b9ba6);',
-        '在电脑上打开 Tailscale，登录并点“Connect”；连上以后这里会显示 100.x 的地址。'))
+        '在电脑上打开 Tailscale，登录并点“Connect”；连上以后手机才能找到这台电脑。'))
       tsCard.appendChild(linkButton('打开 Tailscale 管理后台', 'https://login.tailscale.com/admin/machines'))
     }
     section.appendChild(tsCard)

diff --git a/src/settings-section.js b/src/settings-section.js
@@ -176,11 +176,12 @@ function runSettingsSection() {
     if (ts.version) statusRow.appendChild(el('span', 'font-size:12px;color:var(--dsw-alias-label-secondary, #9b9ba6);', ts.version))
     tsCard.appendChild(statusRow)
 
-    if (ts.state === 'running' && ts.ip) {
-      tsCard.appendChild(row('地址', ts.url || ('http://' + ts.ip + ':' + data.port), { copy: ts.url || ('http://' + ts.ip + ':' + data.port) }))
+    if (ts.state === 'running') {
+      // The phone carries its own tailnet node and discovers this machine through
+      // the account, so the address is not something anyone has to type.
       if (ts.hostname) tsCard.appendChild(row('设备', ts.hostname))
       tsCard.appendChild(el('div', 'padding:10px 0 12px;font-size:12px;line-height:1.7;color:var(--dsw-alias-label-secondary, #9b9ba6);',
-        '手机连同一个 Tailnet，在 HARNESS Phone 里填上面的地址和配对码即可。同一个 Wi-Fi 也不再需要局域网地址。'))
+        '手机端登录同一个 Tailscale 账号，在设备列表里选这台电脑，再填配对码。'))
     } else if (ts.state === 'not-installed') {
       tsCard.appendChild(el('div', 'padding:0 0 10px;font-size:13px;line-height:1.7;color:var(--dsw-alias-label-secondary, #9b9ba6);',
         '手机端已经带了自己的 Tailscale 节点，但电脑这一端需要装一个并登录同一账号，手机才连得回来。'))
@@ -189,7 +190,7 @@ function runSettingsSection() {
         '装好并登录后回到这里，状态会自动变成“已连接”。'))
     } else {
       tsCard.appendChild(el('div', 'padding:0 0 10px;font-size:13px;line-height:1.7;color:var(--dsw-alias-label-secondary, #9b9ba6);',
-        '在电脑上打开 Tailscale，登录并点“Connect”；连上以后这里会显示 100.x 的地址。'))
+        '在电脑上打开 Tailscale，登录并点“Connect”；连上以后手机才能找到这台电脑。'))
       tsCard.appendChild(linkButton('打开 Tailscale 管理后台', 'https://login.tailscale.com/admin/machines'))
     }
     section.appendChild(tsCard)

diff --git a/lib/index.js b/lib/index.js
@@ -526,8 +526,9 @@ export function apply(ctx, pluginConfig = {}) {
     }
     const ts = tailscaleSnapshot()
     let tail
-    if (ts.running && ts.url) {
-      tail = `<p>Tailscale: <a href="${ts.url}/pair?code=${state.pairingCode}">${ts.url}</a></p>`
+    if (ts.running) {
+      // The app finds this machine through the tailnet, so only its name matters.
+      tail = `<p>这台电脑：<code>${ts.hostname || ts.ip}</code></p>`
     } else if (ts.installed) {
       tail = '<p>Tailscale 已安装，但还没有连接。请在电脑上打开 Tailscale 并登录。</p>'
     } else {
@@ -537,7 +538,7 @@ export function apply(ctx, pluginConfig = {}) {
     res.end(page('手机配对', `
       <p>配对码：<code>${state.pairingCode}</code></p>
       ${tail}
-      <p>手机 App 里填上面的 Tailscale 地址和配对码；手机自带 Tailnet 节点，两端登录同一个账号即可。</p>`))
+      <p>手机 App 里登录同一个 Tailscale 账号，选中这台电脑，再填上面的配对码。</p>`))
   }
 
   const server = http.createServer(async (req, res) => {

diff --git a/README.md b/README.md
@@ -32,9 +32,9 @@ https://github.com/tihuzushi/dsh-phone-bridge
 
 装好并重启后，HARNESS 的**设置**里会多出一栏 **DSH Phone Assistant**：显示配对码、监听地址、上游端口和端口设置，都带一键复制；右上角有服务状态（运行中 / 未运行）。
 
-连接地址**只显示 Tailscale 一条**，并实时检测这台电脑上的 Tailscale：
+Tailscale 一块**只显示这台电脑的设备名**，并实时检测它有没有装好、连上：
 
-- 已连接：显示 `100.x` 地址、设备名和版本
+- 已连接：显示设备名和 Tailscale 版本（手机端自己会找到这台机器，不用填地址）
 - 已安装但没登录 / 没连接：提示去电脑上打开 Tailscale 并 Connect
 - 没安装：直接给出 [Tailscale 下载页](https://tailscale.com/download/windows) 的跳转按钮
 
@@ -48,9 +48,9 @@ https://github.com/tihuzushi/dsh-phone-bridge
 http://127.0.0.1:8765/_dsh-phone
 ```
 
-页面会显示 6 位配对码和 Tailscale 地址（配对信息只在本机回环地址显示，局域网里的其他人看不到）。
+页面会显示 6 位配对码和这台电脑的设备名（配对信息只在本机回环地址显示，局域网里的其他人看不到）。
 
-手机 App 里填「地址 + 配对码」即可；也可以直接把 `http://<地址>:8765/pair?code=<配对码>` 发到手机上打开。
+手机 App 里登录同一个 Tailscale 账号、选中这台电脑，再填配对码即可。
 
 配对成功后手机会拿到一个 1 年有效的 cookie，之后不用再配。
 
@@ -58,8 +58,8 @@ http://127.0.0.1:8765/_dsh-phone
 
 插件监听的是 `0.0.0.0:8765`，**包含 Tailscale 虚拟网卡**，所以：
 
-- 电脑登录 Tailscale 后，设置页会显示 `Tailscale: http://100.x.x.x:8765`，启动日志里也会多一条
-- 手机和电脑在同一个 tailnet 里，填这个 `100.x` 地址就能在外网用
+- 电脑登录 Tailscale 后，设置页会显示设备名，启动日志里也会多一条 `Tailscale: http://100.x.x.x:8765`
+- 手机和电脑在同一个 tailnet 里就能连，不管在同一个 Wi-Fi 还是外网
 - 手机端**不需要装 Tailscale App**——HARNESS Phone 的 APK 内置了 tsnet，在 App 里登录一次即可
 
 > App 端自 2.x 起只支持内置 Tailscale，1.x 的「局域网直连 / 手动填 IP」已经移除。
